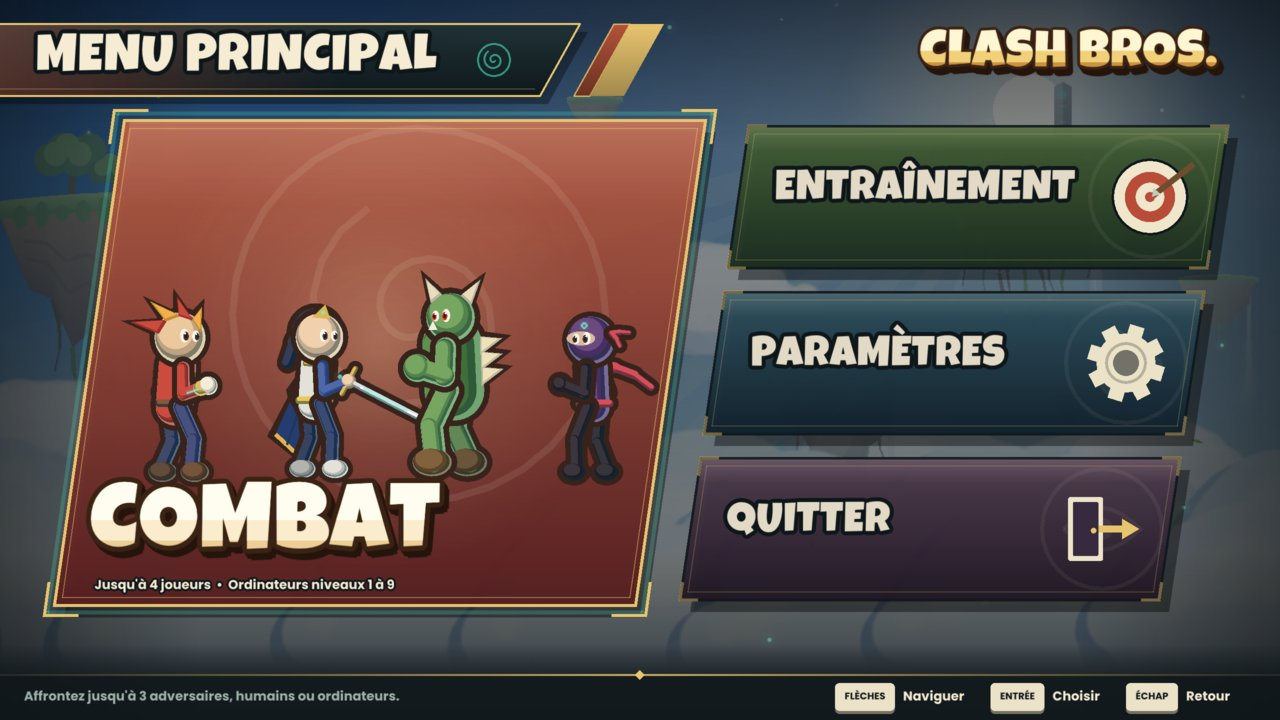
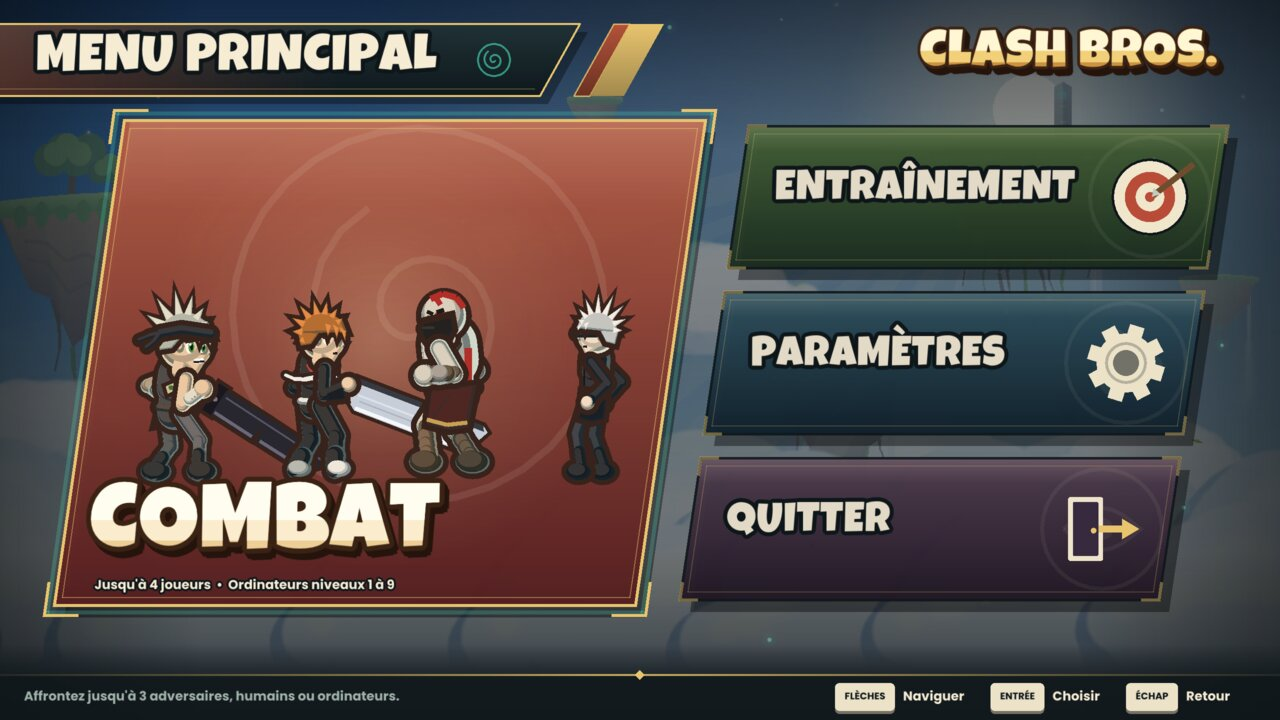
README: v4 screenshots (nine fighters, weapon drop, ultimate cut-in and domain, impact frame)
Claude-Session: https://claude.ai/code/session_01AobpBwWB4BvzwRjd3YJesy

Changed region(s): [[0.0938, 0.3667, 0.5312, 0.6722]]

diff --git a/README.md b/README.md
@@ -13,13 +13,15 @@ La direction artistique s'inspire de *Zelda: Tears of the Kingdom* : îles céle
 runes turquoise, profondeurs éclairées par des racines lumineuses, personnages en ombrage « peint ».
 Tout est dessiné par le code (aucune image ni logo repris du jeu).
 
-| Menu principal | Sélection des combattants (icônes manette) |
+| Menu principal | Sélection des 9 combattants (icônes manette) |
 |---|---|
 | ![Menu principal](docs/menu.jpg) | ![Sélection](docs/selection.jpg) |
-| **Choix de l'arène** | **Combat** |
+| **Choix de l'arène** | **Combat : la hache de Kratos tombe du ciel** |
 | ![Arène](docs/arene.jpg) | ![Combat](docs/combat.jpg) |
-| **Ulti : attaque finale SUPER CLASH** | **Entraînement** |
-| ![Attaque finale](docs/attaque_finale.jpg) | ![Entraînement](docs/entrainement.jpg) |
+| **Cut-in d'ultime : Sphère de l'Infini (Gojo)** | **Ultime : Sanctuaire démoniaque (Sukuna)** |
+| ![Cut-in](docs/cutin.jpg) | ![Ultime](docs/attaque_finale.jpg) |
+| **« Impact frame » façon manga** | **Entraînement** |
+| ![Impact frame](docs/impact.jpg) | ![Entraînement](docs/entrainement.jpg) |
 | **Paramètres (schéma de la manette)** | **Résultats** |
 | ![Paramètres](docs/parametres.jpg) | ![Résultats](docs/resultats.jpg) |
 
